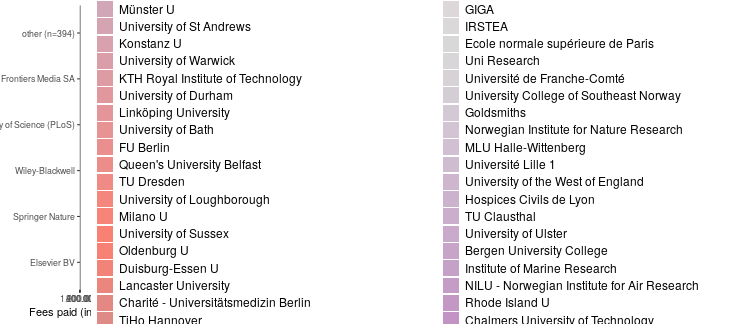
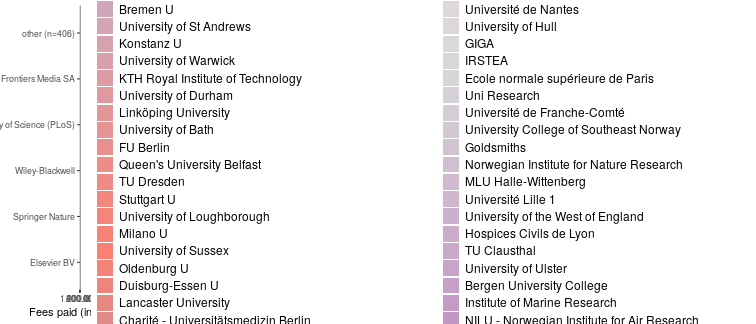
post: rostock u joins openapc

diff --git a/about.md b/about.md
@@ -53,13 +53,13 @@ So far, the following German universities have agreed to share information on pa
 - [University of Oldenburg](http://www.bis.uni-oldenburg.de/en/teachingresearchingpublishing/publishing/openaccesspublishing/open-access-publication-fund/)
 - [University of Potsdam](https://publishup.uni-potsdam.de/home/index/help/content/publication_fund)
 - [University of Regensburg](http://oa.uni-regensburg.de/)
+- [University of Rostock](https://www.ub.uni-rostock.de/wissenschaftliche-services/open-access/open-access-publizieren/)
 - [University of Stuttgart](https://oa.uni-stuttgart.de/publizieren/fonds/)
 - [University of Trier](https://www.uni-trier.de/index.php?id=60802)
 - [University of Tübingen](https://www.uni-tuebingen.de/en/facilities/university-library/researching-publishing/open-access-publikationsfonds.html)
 - [University of Veterinary Medicine Hannover, Foundation (TiHo)](http://www.tiho-hannover.de/de/kliniken-institute/bibliothek/open-access/publikationsfonds-an-der-tiho/)
 - [University of Würzburg](http://www.bibliothek.uni-wuerzburg.de/en/service0/electronic_publishing/open_access/open_access_journals/)
 - [Ulm University](https://www.uni-ulm.de/index.php?id=57202)
-
 
 ## Participating Research Society Funds in Germany
 
@@ -84,6 +84,7 @@ The data content covers APCs as paid for by our central budget for the Max Planc
 - [Max Delbrück Center for Molecular Medicine (MDC)](https://www.mdc-berlin.de/1161876/de/about_the_mdc/structure/administration/library)
 - [Technische Informationsbibliothek (TIB) - German National Library of Science and Technology](https://www.tib.eu/en/service/tib-open-access-policy/)
 - [WIAS - Weierstrass Institute for Applied Analysis and Stochastics](https://www.wias-berlin.de/services/library/)
+
 
 ## Participating Austrian Institutions
 
@@ -188,6 +189,7 @@ The [Couperin consortium](https://couperin.org) aggregates data on APC expenditu
 - Université Technologique de Compiègne
 - Université Evry Val-d'Essonne
 - Université de France-Comté
+- Université de La Rochelle
 - Université Lille 1
 - Université Lille 2
 - Université de Lorraine
@@ -201,7 +203,6 @@ The [Couperin consortium](https://couperin.org) aggregates data on APC expenditu
 - Université Paris Descartes (Paris V)
 - Université Pierre et Marie Curie (Paris VI)
 - Université Paris Diderot (Paris VII)
-
 
 ## Participating Institutions from the United Kingdom:
 
@@ -276,7 +277,6 @@ Jisc Collections released data on APC payments made by UK higher education insti
 - University of Warwick
 - University of York
 
-
 ## Participating Institutions from the Czech Republic (contributed by [CzechELib](https://www.czechelib.cz/en/)):
 
 - [University of Chemistry and Technology, Prague](https://www.vscht.cz/?jazyk=en)
@@ -301,13 +301,13 @@ Jisc Collections released data on APC payments made by UK higher education insti
 
 Information on both open access journal articles and open access publication of articles in toll-access journals ("hybrid") are provided.
 
-In total,  145 143 383 € for  73 664 articles were paid by the participating unviversities. Average  fee is 1 970.3 € and the median 1 779 €.
+In total,  146 364 354 € for  74 571 articles were paid by the participating unviversities. Average  fee is 1 962.8 € and the median 1 769 €.
 
 ### Open Access Journals
 
 
 
-At the moment, the dataset releases information on 41 698 articles in open access journals which charge publication fees. Total expenditure amounts to  64 980 118 €. Average  fee is 1 558.4 € and the median 1 464 €.
+At the moment, the dataset releases information on 42 587 articles in open access journals which charge publication fees. Total expenditure amounts to  66 178 113 €. Average  fee is 1 554 € and the median 1 463 €.
 
 View dataset on [GitHub](https://github.com/OpenAPC/openapc-de/blob/master/data/apc_de.csv).
 
@@ -389,7 +389,7 @@ View dataset on [GitHub](https://github.com/OpenAPC/openapc-de/blob/master/data/
 |Lancaster University                                            |       64|           101,253|         1,582|  1,499|
 |Leeds Beckett University                                        |        8|            12,927|         1,616|  1,461|
 |Leibniz-Fonds                                                   |      271|           435,042|         1,605|  1,572|
-|Leibniz-IGB                                                     |        6|            12,134|         2,022|  2,132|
+|Leibniz-IGB                                                     |       21|            28,056|         1,336|  1,096|
 |Leipzig U                                                       |      415|           611,856|         1,474|  1,553|
 |Linköping University                                            |      241|           386,993|         1,606|  1,413|
 |Linnaeus University                                             |       20|            28,354|         1,418|  1,335|
@@ -407,7 +407,7 @@ View dataset on [GitHub](https://github.com/OpenAPC/openapc-de/blob/master/data/
 |Molde University College                                        |        3|             1,876|           625|    584|
 |MPG                                                             |    3,674|         4,987,088|         1,357|  1,207|
 |Muenchen LMU                                                    |      558|           792,468|         1,420|  1,471|
-|Münster U                                                       |      382|           468,717|         1,227|  1,200|
+|Münster U                                                       |      467|           596,568|         1,277|  1,230|
 |Museum National d'Histoire Naturelle                            |       11|            14,515|         1,320|  1,305|
 |Nansen Environmental and Remote Sensing Center                  |        6|             5,298|           883|    775|
 |NILU - Norwegian Institute for Air Research                     |       14|            20,647|         1,475|  1,441|
@@ -433,12 +433,13 @@ View dataset on [GitHub](https://github.com/OpenAPC/openapc-de/blob/master/data/
 |Queen's University Belfast                                      |      216|           350,202|         1,621|  1,454|
 |Regensburg U                                                    |      742|         1,106,933|         1,492|  1,472|
 |Rhode Island U                                                  |       14|            11,639|           831|    691|
+|Rostock U                                                       |      140|           183,565|         1,311|  1,421|
 |Royal Holloway                                                  |       12|            20,914|         1,743|  1,512|
 |SINTEF                                                          |        3|             3,633|         1,211|  1,176|
 |Sørlandet Hospital Trust                                        |        5|             8,453|         1,691|  1,667|
 |St George's, University of London                               |       19|            36,284|         1,910|  1,862|
 |Stockholm University                                            |      271|           412,471|         1,522|  1,350|
-|Stuttgart U                                                     |      210|           254,329|         1,211|  1,261|
+|Stuttgart U                                                     |      272|           342,537|         1,259|  1,305|
 |Swansea University                                              |       57|            99,199|         1,740|  1,419|
 |Swedish University of Agricultural Sciences                     |      450|           595,056|         1,322|  1,328|
 |Swiss National Science Foundation (SNSF)                        |      369|           653,627|         1,771|  1,426|
@@ -447,14 +448,14 @@ View dataset on [GitHub](https://github.com/OpenAPC/openapc-de/blob/master/data/
 |TIB                                                             |        1|             1,619|         1,619|  1,619|
 |TiHo Hannover                                                   |      218|           315,780|         1,449|  1,428|
 |Trier U                                                         |       12|            18,716|         1,560|  1,572|
-|TU Berlin                                                       |       30|            40,074|         1,336|  1,392|
-|TU Braunschweig                                                 |       33|            40,822|         1,237|  1,531|
-|TU Chemnitz                                                     |       73|            84,652|         1,160|  1,289|
+|TU Berlin                                                       |       90|           118,840|         1,320|  1,382|
+|TU Braunschweig                                                 |       96|           115,424|         1,202|  1,244|
+|TU Chemnitz                                                     |       98|           113,365|         1,157|  1,249|
 |TU Clausthal                                                    |       12|            11,023|           919|    918|
 |TU Darmstadt                                                    |       35|            48,777|         1,394|  1,497|
 |TU Dresden                                                      |      275|           390,484|         1,420|  1,500|
 |TU Ilmenau                                                      |       36|            42,389|         1,177|  1,251|
-|TU Muenchen                                                     |      858|         1,147,525|         1,337|  1,462|
+|TU Muenchen                                                     |    1,222|         1,662,099|         1,360|  1,483|
 |TU Wien                                                         |       45|            61,645|         1,370|  1,323|
 |Tuebingen U                                                     |      789|         1,114,397|         1,412|  1,442|
 |UCL                                                             |    2,454|         4,150,875|         1,691|  1,582|
@@ -472,7 +473,7 @@ View dataset on [GitHub](https://github.com/OpenAPC/openapc-de/blob/master/data/
 |Université de Caen Normandie                                    |       32|            41,815|         1,307|  1,350|
 |Université de Franche-Comté                                     |       18|            21,696|         1,205|  1,184|
 |Université de La Rochelle                                       |        2|             3,905|         1,952|  1,952|
-|Université de Lorraine                                          |       60|            73,787|         1,230|  1,142|
+|Université de Lorraine                                          |      135|           159,582|         1,182|  1,105|
 |Université de Nantes                                            |       24|            36,474|         1,520|  1,495|
 |Université de Poitiers                                          |        7|             9,691|         1,384|  1,099|
 |Université de Rennes 1                                          |       50|            64,456|         1,289|  1,305|
@@ -546,7 +547,7 @@ View dataset on [GitHub](https://github.com/OpenAPC/openapc-de/blob/master/data/
 
 
 In many toll-access journals some of the articles are open access after a fee has been paid. This model is often called "hybrid open access".
-The dataset covers 31 966 hybrid open access articles. Total expenditure amounts to  80 163 265 €. Average  fee is 2 507.8 € and the median 2 452 €.
+The dataset covers 31 984 hybrid open access articles. Total expenditure amounts to  80 186 241 €. Average  fee is 2 507.1 € and the median 2 451 €.
 
 The following institutions have contributed its expenditures for hybrid open access.
 
@@ -603,7 +604,7 @@ The following institutions have contributed its expenditures for hybrid open acc
 |KTH Royal Institute of Technology                           |      137|           250,396|         1,828|  1,848|
 |Lancaster University                                        |      169|           355,779|         2,105|  2,052|
 |Leeds Beckett University                                    |        1|             2,406|         2,406|  2,406|
-|Leibniz-IGB                                                 |        5|            10,273|         2,055|  2,871|
+|Leibniz-IGB                                                 |        7|            14,513|         2,073|  2,200|
 |Linköping University                                        |       70|           146,434|         2,092|  2,132|
 |Linnaeus University                                         |       19|            42,280|         2,225|  2,105|
 |Liverpool John Moores University                            |        2|             6,793|         3,396|  3,396|
@@ -634,6 +635,7 @@ The following institutions have contributed its expenditures for hybrid open acc
 |TiHo Hannover                                               |       14|            30,735|         2,195|  2,019|
 |TU Chemnitz                                                 |        1|               100|           100|    100|
 |TU Clausthal                                                |        3|             7,082|         2,361|  2,500|
+|TU Muenchen                                                 |       15|            18,136|         1,209|  1,209|
 |UCL                                                         |    3,929|         8,701,026|         2,215|  2,092|
 |Ulm U                                                       |       17|            35,219|         2,072|  2,319|
 |Umeå University                                             |       23|            45,340|         1,971|  2,132|
@@ -643,7 +645,7 @@ The following institutions have contributed its expenditures for hybrid open acc
 |Université de Bourgogne                                     |        1|             1,950|         1,950|  1,950|
 |Université de Caen Normandie                                |        1|               750|           750|    750|
 |Université de Franche-Comté                                 |        1|               307|           307|    307|
-|Université de Lorraine                                      |        3|             5,256|         1,752|  1,370|
+|Université de Lorraine                                      |        4|             5,856|         1,464|  1,121|
 |Université de Nantes                                        |        2|             6,191|         3,096|  3,096|
 |Université de Poitiers                                      |        2|             3,836|         1,918|  1,918|
 |Université de Rennes 1                                      |        2|             1,310|           655|    655|
@@ -775,7 +777,7 @@ For data enrichment, sample visualisations and explorations we build on the work
 
 ## Contributors
 
-Jens Harald Aasheim, Benjamin Ahlborn, Chelsea Ambler, Magdalena Andrae, Jochen Apel, Hans-Georg Becker, Roland Bertelmann, Daniel Beucke, Peter Blume, Ute Blumtritt, Sabine Boccalini, Kim Braun, Christoph Broschinski, Dorothea Busjahn, Pablo de Castro, Roberto Cozatl, Amanda Cullin, Patrick Danowski, Gernot Deinzer, Julia Dickel, Andrea Dorner, Stefan Drößler, Karin Eckert, Carsten Elsner, Clemens Engelhardt, Inken Feldsien-Sudhaus, Fabian Franke, Claudia Frick, Paola Galimberti, Agnes Geißelmann, Kai Karin Geschuhn, Steffi Grimm, Christian Gutknecht, Uli Hahn, Kristina Hanig, Dominik Hell, Ulrich Herb, Stephanie Herzog, Ute Holzwarth, Christie Hurrell, Doris Jaeger, Najko Jahn, Alexandra Jobmann, Andreas Kennecke, Robert Kiley, Ilka Kleinod, Lydia Koglin, Gerrit Kuehle, Ignasi Labastida i Juan, Gerald Langhanke, Stuart Lawson, Kathrin Lucht-Roussel, Jan Lüth, Frank Lützenkirchen, Anna Marini, Anja Oberländer, Jere Odell, Vitali Peil, Dirk Pieper, Tobias Pohlmann, Thomas Porquet, Markus Putnings, Annette Scheiner, Michael Schlachter, Birgit Schlegel, Stefanie Seeh, Adriana Sikora, Susanne Stemmler, Matti Stöhr, Eva Stopková, Andrée Rathemacher, Edith Reschke, Katharina Rieck, Florian Ruckelshausen, Ilka Rudolf, Marco Tullney, Astrid Vieler, Viola Voß, Marco Winkler, Sabine Witt, Philip Young
+Jens Harald Aasheim, Benjamin Ahlborn, Chelsea Ambler, Magdalena Andrae, Jochen Apel, Hans-Georg Becker, Roland Bertelmann, Daniel Beucke, Peter Blume, Ute Blumtritt, Sabine Boccalini, Kim Braun, Christoph Broschinski, Cliff Buschhart, Dorothea Busjahn, Pablo de Castro, Roberto Cozatl, Amanda Cullin, Patrick Danowski, Gernot Deinzer, Julia Dickel, Andrea Dorner, Stefan Drößler, Karin Eckert, Carsten Elsner, Clemens Engelhardt, Inken Feldsien-Sudhaus, Fabian Franke, Claudia Frick, Marléne Friedrich, Paola Galimberti, Agnes Geißelmann, Kai Karin Geschuhn, Steffi Grimm, Christian Gutknecht, Uli Hahn, Kristina Hanig, Dominik Hell, Ulrich Herb, Stephanie Herzog, Ute Holzwarth, Christie Hurrell, Doris Jaeger, Najko Jahn, Alexandra Jobmann, Andreas Kennecke, Robert Kiley, Ilka Kleinod, Lydia Koglin, Gerrit Kuehle, Ignasi Labastida i Juan, Gerald Langhanke, Stuart Lawson, Camilla Lindelöw, Kathrin Lucht-Roussel, Jan Lüth, Frank Lützenkirchen, Steffen Malo, Anna Marini, Anja Oberländer, Jere Odell, Vitali Peil, Dirk Pieper, Tobias Pohlmann, Thomas Porquet, Markus Putnings, Annette Scheiner, Michael Schlachter, Birgit Schlegel, Stefanie Seeh, Adriana Sikora, Susanne Stemmler, Matti Stöhr, Eva Stopková, Andrée Rathemacher, Edith Reschke, Katharina Rieck, Florian Ruckelshausen, Ilka Rudolf, Marco Tullney, Astrid Vieler, Viola Voß, Marco Winkler, Sabine Witt, Philip Young
 
 ## Contact
 

diff --git a/_posts/2019-02-27-rostock.md b/_posts/2019-02-27-rostock.md
@@ -1,0 +1,67 @@
+---
+layout:     post
+author:     Christoph Broschinski
+author_lnk: https://github.com/cbroschinski
+title:      University of Rostock joins OpenAPC
+date:       2019-02-27 08:00:00
+summary:    
+categories: [general, openAPC]
+comments: true
+---
+
+
+
+
+We welcome the [University of Rostock](https://www.uni-rostock.de/en/) as new contributing institution!
+
+The [Rostock University Library](https://www.ub.uni-rostock.de/en/) is in charge of the [University's Open Access Publishing Fund](https://www.ub.uni-rostock.de/en/support-for-researchers/open-access/open-access-publizieren/), which is supported under the [DFG's Open Access Publishing Programme](http://www.dfg.de/en/research_funding/programmes/infrastructure/lis/funding_opportunities/open_access/).
+
+Contact Person is [Steffen Malo](mailto:openaccess.ub@uni-rostock.de).
+
+## Cost data
+
+
+
+The initial data set provided by Rostock University Library covers publication fees for 140 articles published in 2017 and 2018. Total expenditure amounts to 183 565€ and the average fee is 1 311€.
+
+A detailed analysis of the contributed data provides the following overview:
+
+### Publishers
+
+
+|                                                  | Articles| Fees paid in EURO| Mean Fee paid|
+|:-------------------------------------------------|--------:|-----------------:|-------------:|
+|MDPI AG                                           |       39|             42921|          1101|
+|Springer Nature                                   |       27|             43166|          1599|
+|Frontiers Media SA                                |       17|             28924|          1701|
+|Public Library of Science (PLoS)                  |       14|             21672|          1548|
+|Elsevier BV                                       |        8|              9210|          1151|
+|Hindawi Publishing Corporation                    |        7|              9523|          1360|
+|Oxford University Press (OUP)                     |        3|              3948|          1316|
+|Ronpub                                            |        3|               635|           212|
+|Wiley-Blackwell                                   |        3|              5099|          1700|
+|Copernicus GmbH                                   |        2|              1502|           751|
+|Scientific Research Publishing, Inc,              |        2|              1500|           750|
+|Akademiai Kiado Zrt.                              |        1|               549|           549|
+|Bioflux                                           |        1|               161|           161|
+|British Editorial Society of Bone & Joint Surgery |        1|              1299|          1299|
+|Cambridge University Press (CUP)                  |        1|              1994|          1994|
+|David Publishing Company                          |        1|               299|           299|
+|e-Century Publishing Corporation                  |        1|              1770|          1770|
+|International Union of Crystallography (IUCr)     |        1|               132|           132|
+|Ivyspring International Publisher                 |        1|              1775|          1775|
+|Optical Society of America (OSA)                  |        1|              1609|          1609|
+|Royal Society of Chemistry (RSC)                  |        1|               680|           680|
+|S. Karger AG                                      |        1|               624|           624|
+|Sciaccess Publishers LLC                          |        1|              1216|          1216|
+|Scitechnol Biosoft Pvt. Ltd.                      |        1|              1332|          1332|
+|The Company of Biologists                         |        1|              1428|          1428|
+|Walter de Gruyter GmbH                            |        1|               595|           595|
+
+###  Average costs per year (in EURO)
+
+![plot of chunk box_rostock_2019_02_27_year_full](/figure/box_rostock_2019_02_27_year_full-1.png)
+
+###  Average costs per publisher (in EURO)
+
+![plot of chunk box_rostock_2019_02_27_publisher_full](/figure/box_rostock_2019_02_27_publisher_full-1.png)
